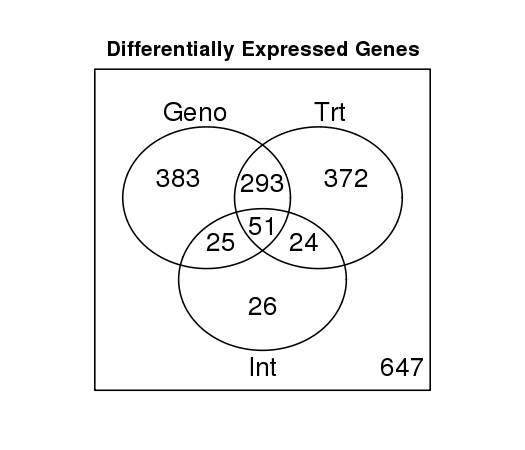
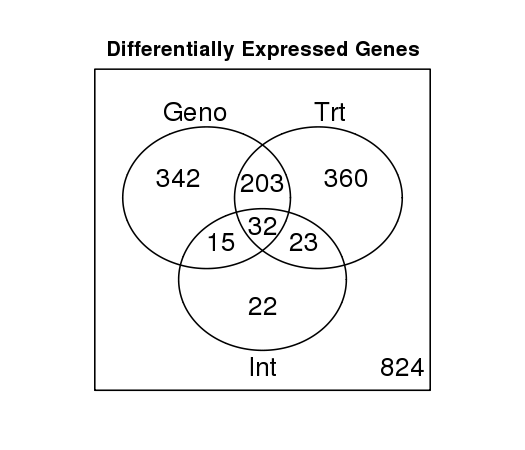
modified md to select probes

diff --git a/tarea7.1/tarea7_1.md b/tarea7.1/tarea7_1.md
@@ -223,7 +223,7 @@ results$GeneID <- results$EntrezID
 
  ```
  Probes.DE <- results[, c("FDR.Geno", "FDR.Trt", "FDR.Int")]  <= fdr_th
- Genes.DE  <- apply(Probes.DE, 2, tapply, results$GeneID, any)
+ Genes.DE  <- apply(Probes.DE, 2, tapply, results$GeneID, all)
  ```
 
 
@@ -234,7 +234,7 @@ Usando solo las sondas seleccionadas por efectos de interacción, se contaron la
 Probes.Int_Geno <- results[results$FDR.Int <= fdr_th,
                             c("FDR.Geno_I", "FDR.Geno_C")] <= fdr_th
  Genes.Int_Geno  <- apply(Probes.Int_Geno, 2, tapply,
-                          results$GeneID[results$FDR.Int <= fdr_th], any)
+                          results$GeneID[results$FDR.Int <= fdr_th], all)
 ```
 Usando solamente sondas seleccionadas por efectos de interacción, se contaron las sondas significativas para el efecto de tratamiento en ratones del genotipo B y/o del genotipo BY.
 
@@ -242,7 +242,7 @@ Usando solamente sondas seleccionadas por efectos de interacción, se contaron l
 Probes.Int_Trt  <- results[results$FDR.Int <= fdr_th,
                             c("FDR.Trt_B", "FDR.Trt_BY")]  <= fdr_th
  Genes.Int_Trt   <- apply(Probes.Int_Trt, 2, tapply,
-                          results$GeneID[results$FDR.Int <= fdr_th], any)
+                          results$GeneID[results$FDR.Int <= fdr_th], all)
 
 ```
 
